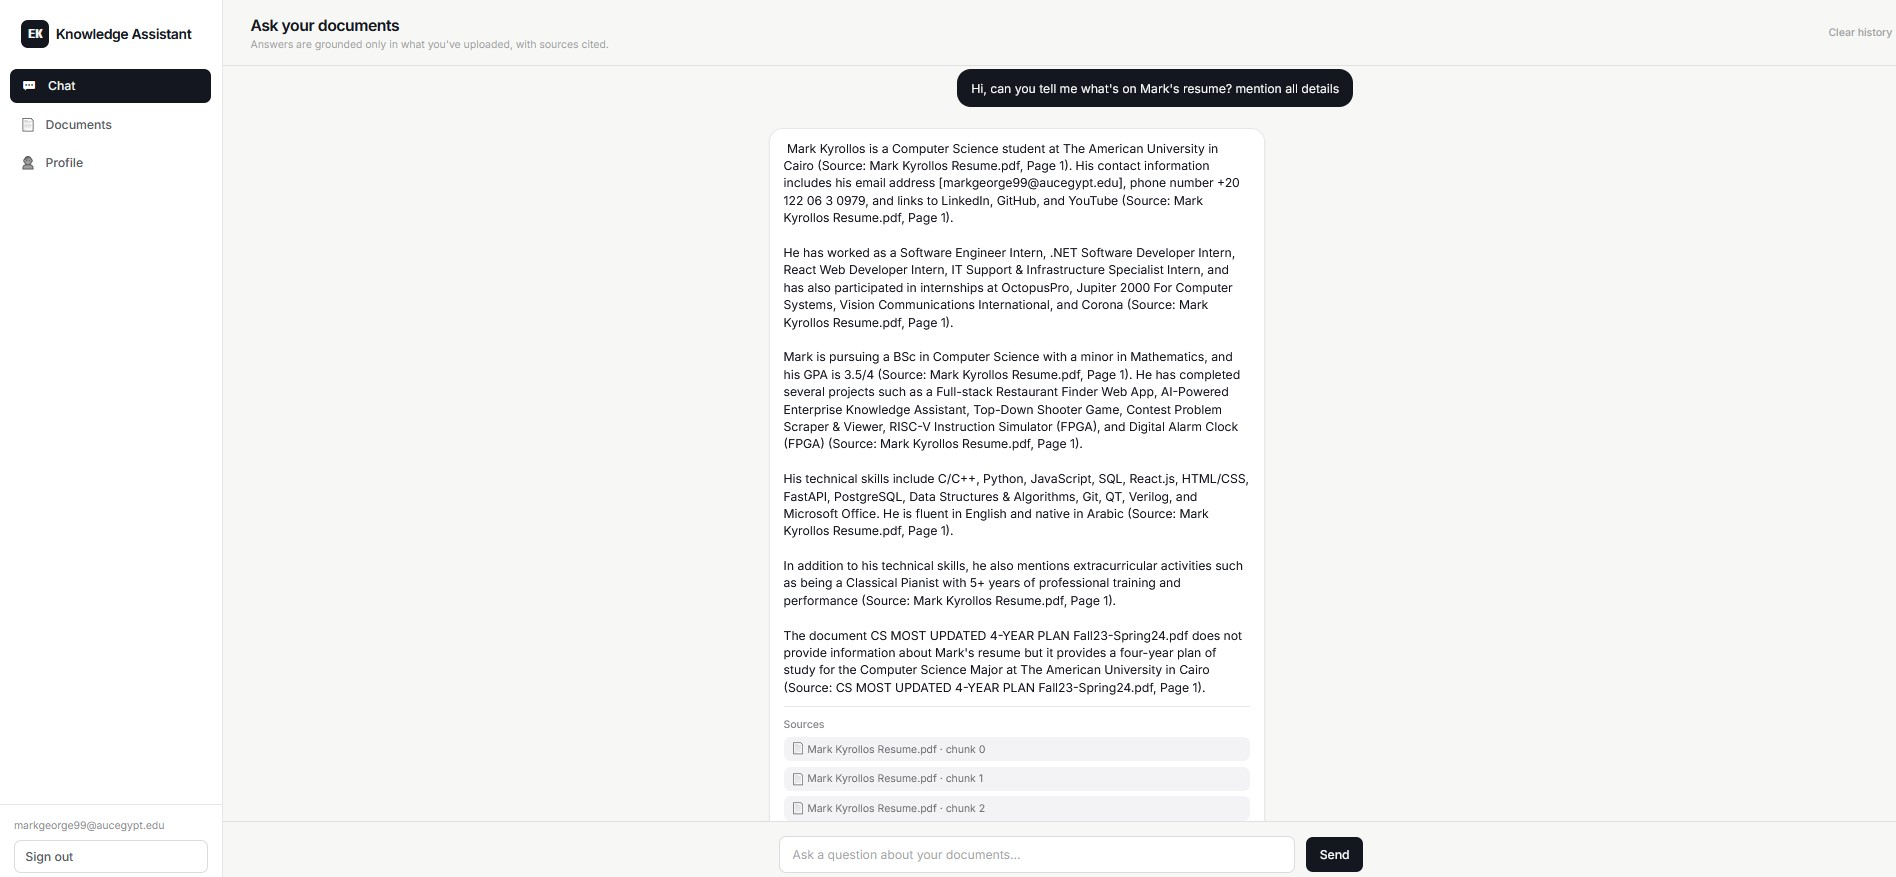
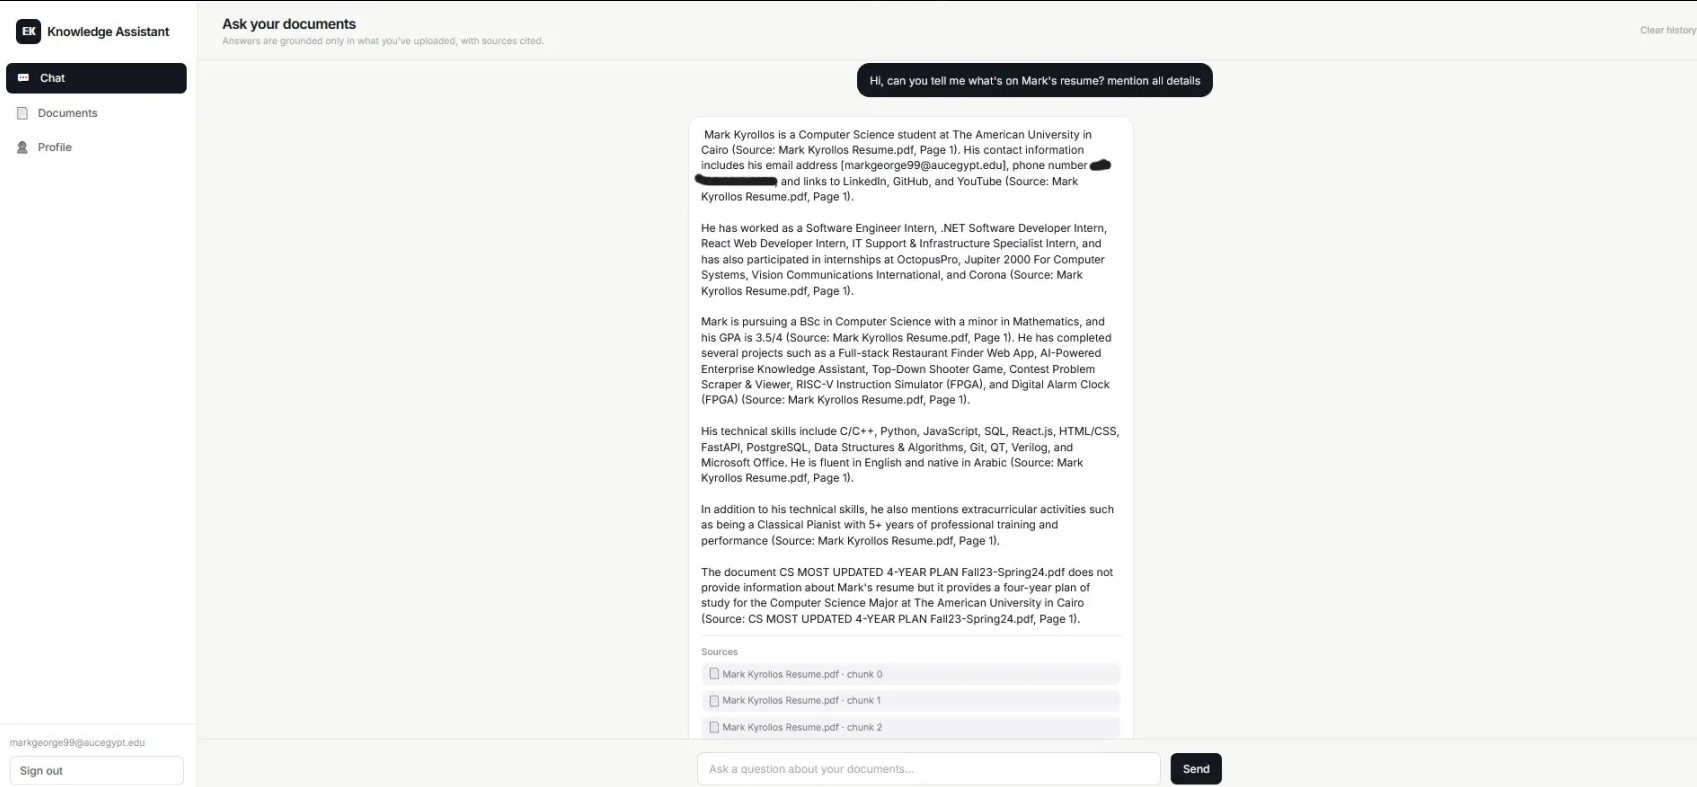
new updates

diff --git a/README.md b/README.md
@@ -35,11 +35,10 @@ every answer cites the source document and chunk it came from.
 | Frontend   | React, Vite, Tailwind CSS, React Router       |
 | Backend    | FastAPI, SQLAlchemy                           |
 | Database   | PostgreSQL (SQLite for local dev, zero setup) |
-<<<<<<< HEAD
-| Vector DB  | ChromaDB (persistent, local)              |
-| Embeddings | Ollama `mistral`                          |
-| LLM        | Ollama                                    |
-| Auth       | JWT (python-jose) + bcrypt password hashing |
+| Vector DB  | ChromaDB (persistent, local)                  |
+| Embeddings | Ollama `mistral`                              |
+| LLM        | Ollama                                        |
+| Auth       | JWT (python-jose) + bcrypt password hashing   |
 
 ## Project structure
 
